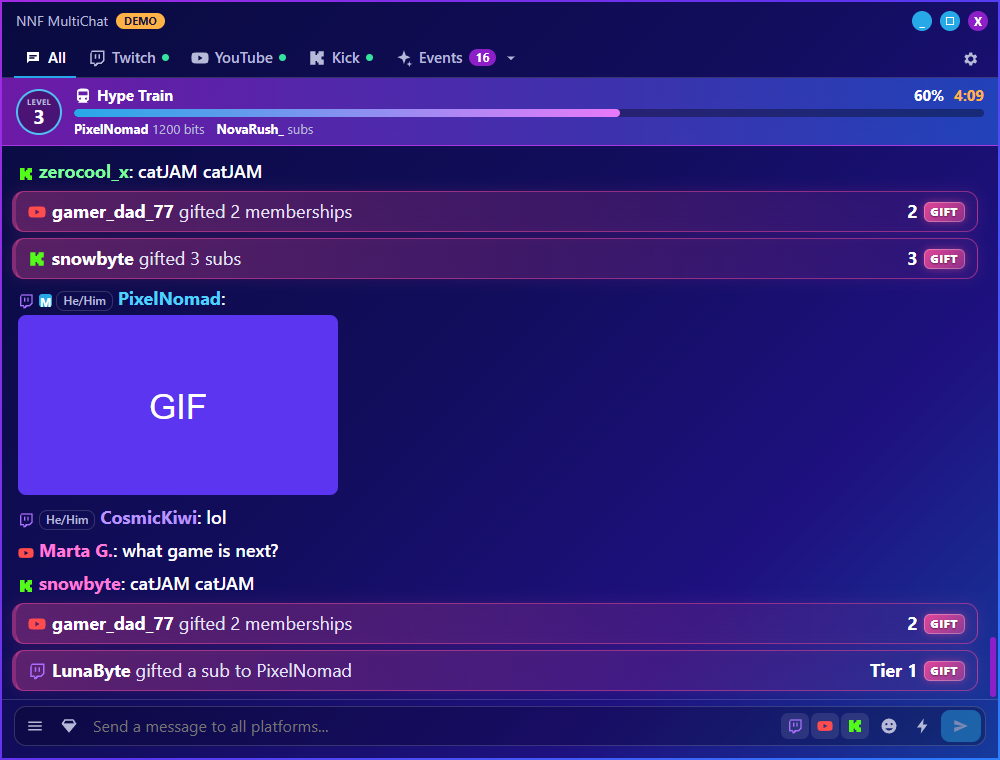
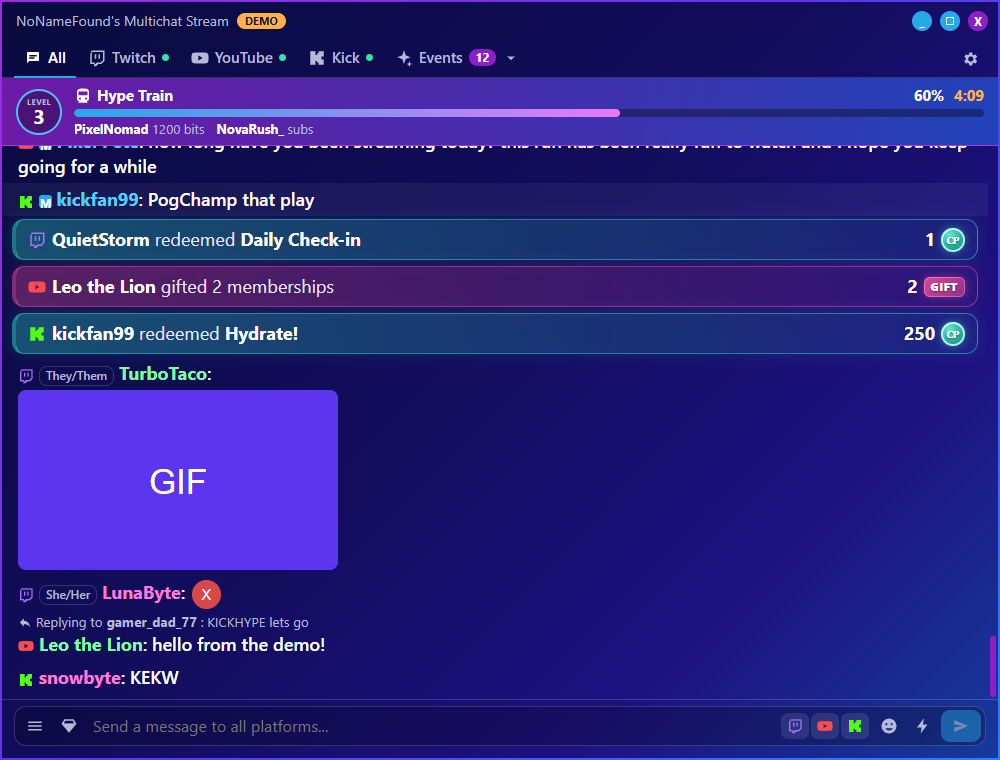
Add close-to-tray, simple logins and new app name
- Choose whether X exits, asks or minimizes to the tray
- Allow release builds to include YouTube and Kick app credentials
  from a private .env.local, so users only need to log in
- Rename the app to NoNameFound's Multichat Stream

diff --git a/src/main/index.ts b/src/main/index.ts
@@ -1,8 +1,10 @@
 import { BrowserWindow, app, ipcMain, session, shell } from 'electron'
 import { join } from 'node:path'
-import { TWITCH_CLIENT_ID } from '../shared/app-config'
+import { APP_NAME, TWITCH_CLIENT_ID } from '../shared/app-config'
 import { safeUrl } from '../shared/parts'
 import { PLATFORMS, type Bootstrap, type PanelBounds, type Platform, type Settings } from '../shared/types'
+import { CloseToTray } from './close-to-tray'
+import { hasBuiltIn } from './credentials'
 import { DemoConnector } from './demo'
 import { Hub } from './hub'
 import type { Connector } from './platforms/connector'
@@ -18,11 +20,13 @@ const demo = process.argv.includes('--demo')
 const demoRate = Number(process.argv.find((a) => a.startsWith('--demo-rate='))?.split('=')[1]) || 60
 
 const MIN_OPACITY = 0.05
+const iconPath = app.isPackaged ? join(process.resourcesPath, 'icon.png') : join(app.getAppPath(), 'resources/icon.png')
 
 const hub = new Hub()
 let win: BrowserWindow | null = null
 let twitch: TwitchConnector | null = null
 let panel: TwitchPanel
+let closer: CloseToTray
 
 function openExternal(url: string): void {
   const safe = safeUrl(url)
@@ -42,10 +46,12 @@ function createWindow(): void {
     frame: false,
     show: false,
     backgroundColor: '#150a3c',
-    title: 'NNF MultiChat',
+    title: APP_NAME,
+    icon: iconPath,
     webPreferences: { preload: join(__dirname, '../preload/index.js'), contextIsolation: true, sandbox: true, nodeIntegration: false }
   })
   applyOpacity()
+  closer.attach(win)
   win.once('ready-to-show', () => win?.show())
   win.on('closed', () => { win = null })
   // The renderer is a local page: it must never navigate or open windows itself.
@@ -86,6 +92,8 @@ function registerIpc(): void {
     ...hub.snapshot(),
     demo,
     builtInTwitchId: !!TWITCH_CLIENT_ID,
+    builtInYoutube: hasBuiltIn('youtube'),
+    builtInKick: hasBuiltIn('kick'),
     dataDir,
     version: app.getVersion()
   }))
@@ -139,12 +147,11 @@ function registerIpc(): void {
 if (!app.requestSingleInstanceLock()) app.quit()
 else {
   app.on('second-instance', () => {
-    if (win?.isMinimized()) win.restore()
+    closer.show()
     // Opening the app again rescues a window left almost invisible.
     store.saveSettings({ windowOpacity: 1 })
     applyOpacity()
     win?.webContents.send('settings:changed', store.settings)
-    win?.focus()
   })
 
   void app.whenReady().then(async () => {
@@ -152,6 +159,11 @@ else {
     // Listing installed fonts is the only permission the app itself needs.
     session.defaultSession.setPermissionRequestHandler((_c, p, done) => done((p as string) === 'local-fonts'))
     session.defaultSession.setPermissionCheckHandler((_c, p) => (p as string) === 'local-fonts')
+    closer = new CloseToTray({
+      window: () => win,
+      iconPath,
+      settingsChanged: () => win?.webContents.send('settings:changed', store.settings)
+    })
     panel = new TwitchPanel(() => win, () => twitch?.channelLogin())
     buildConnectors()
     registerIpc()

diff --git a/src/renderer/src/components/Settings.tsx b/src/renderer/src/components/Settings.tsx
@@ -1,6 +1,6 @@
 import { useEffect, useState, type JSX, type ReactNode } from 'react'
 import { KICK_REDIRECT_URI } from '../../../shared/app-config'
-import { PLATFORM_LABEL, type ChatEventGroup, type Platform } from '../../../shared/types'
+import { PLATFORM_LABEL, type ChatEventGroup, type CloseAction, type Platform } from '../../../shared/types'
 import { Icon, PlatformIcon } from '../Icons'
 import { setSecrets, updateSettings, useStore } from '../store'
 import { statusText } from './Tabs'
@@ -38,7 +38,8 @@ function Account({ platform }: { platform: Platform }): JSX.Element {
   const g = GUIDE[platform]
   const idKey = `${platform}ClientId` as const
   const secretKey = platform === 'youtube' ? 'youtubeSecret' : platform === 'kick' ? 'kickSecret' : null
-  const showFields = !(platform === 'twitch' && boot.builtInTwitchId)
+  const builtIn = platform === 'twitch' ? boot.builtInTwitchId : platform === 'youtube' ? boot.builtInYoutube : boot.builtInKick
+  const showFields = !(platform === 'twitch' && builtIn)
   const live = st?.status === 'connected' || st?.status === 'waiting' || st?.status === 'reconnecting'
 
   const act = (fn: () => Promise<unknown>) => () => {
@@ -63,8 +64,8 @@ function Account({ platform }: { platform: Platform }): JSX.Element {
         </div>
       )}
       {showFields && !live && (
-        <details open={!settings[idKey]}>
-          <summary>One-time setup</summary>
+        <details open={!builtIn && !settings[idKey]}>
+          <summary>{builtIn ? 'Optional: use my own developer app' : 'One-time setup'}</summary>
           <ol>{g.steps.map((s) => <li key={s}>{s}</li>)}</ol>
           <p><button className="linkish" onClick={() => void window.nnf.openExternal(g.url)}>Open {g.title}</button></p>
           <label>Client ID
@@ -160,6 +161,16 @@ export function Settings({ onClose }: { onClose(): void }): JSX.Element {
           {!s.setupDismissed && <p className="lead">Welcome! Log in to each platform you stream on. You can do this later from the gear icon.</p>}
           <Section title="Accounts" desc="Connect the platforms you stream on">
             {(['twitch', 'youtube', 'kick'] as Platform[]).map((p) => <Account key={p} platform={p} />)}
+          </Section>
+
+          <Section title="Window" desc="Choose what happens when you close the app">
+            <Row title="When Closing the Window" desc="In the tray, chat stays connected in the background. Open it from the tray icon.">
+              <select aria-label="When closing the window" value={s.closeAction} onChange={(e) => void updateSettings({ closeAction: e.target.value as CloseAction })}>
+                <option value="exit">Exit completely</option>
+                <option value="ask">Ask every time</option>
+                <option value="tray">Minimize to tray</option>
+              </select>
+            </Row>
           </Section>
 
           <Section title="Appearance" desc="Change how the app looks">

diff --git a/src/main/close-to-tray.ts b/src/main/close-to-tray.ts
@@ -1,0 +1,86 @@
+import { BrowserWindow, Menu, Tray, app, dialog } from 'electron'
+import { APP_NAME } from '../shared/app-config'
+import type { CloseAction } from '../shared/types'
+import { store } from './store'
+
+interface Options {
+  window(): BrowserWindow | null
+  iconPath: string
+  /** Tells the UI a remembered choice changed the settings. */
+  settingsChanged(): void
+}
+
+/** Decides what the X button does: exit, hide to the tray, or ask. */
+export class CloseToTray {
+  private tray: Tray | null = null
+  private quitting = false
+  private asking = false
+
+  constructor(private o: Options) {
+    app.on('before-quit', () => { this.quitting = true })
+  }
+
+  attach(win: BrowserWindow): void {
+    win.on('close', (e) => {
+      if (this.quitting) return
+      const action = store.settings.closeAction
+      if (action === 'exit') return
+      e.preventDefault()
+      if (action === 'tray') this.hide()
+      else void this.ask()
+    })
+    // Windows is shutting down, so nothing may block the close.
+    win.on('session-end', () => { this.quitting = true })
+  }
+
+  private async ask(): Promise<void> {
+    const win = this.o.window()
+    if (!win || this.asking) return
+    this.asking = true
+    const { response, checkboxChecked } = await dialog.showMessageBox(win, {
+      type: 'question',
+      title: APP_NAME,
+      message: 'Close the app or keep it running in the tray?',
+      detail: 'In the tray, chat stays connected in the background.',
+      buttons: ['Minimize to tray', 'Exit', 'Cancel'],
+      defaultId: 0,
+      cancelId: 2,
+      checkboxLabel: 'Remember my choice',
+      noLink: true
+    })
+    this.asking = false
+    if (response === 2) return
+    const choice: CloseAction = response === 0 ? 'tray' : 'exit'
+    if (checkboxChecked) {
+      store.saveSettings({ closeAction: choice })
+      this.o.settingsChanged()
+    }
+    if (choice === 'tray') this.hide()
+    else app.quit()
+  }
+
+  private hide(): void {
+    this.ensureTray()
+    this.o.window()?.hide()
+  }
+
+  show(): void {
+    const win = this.o.window()
+    if (!win) return
+    if (win.isMinimized()) win.restore()
+    win.show()
+    win.focus()
+  }
+
+  private ensureTray(): void {
+    if (this.tray) return
+    this.tray = new Tray(this.o.iconPath)
+    this.tray.setToolTip(APP_NAME)
+    this.tray.setContextMenu(Menu.buildFromTemplate([
+      { label: 'Open', click: () => this.show() },
+      { type: 'separator' },
+      { label: 'Exit', click: () => app.quit() }
+    ]))
+    this.tray.on('click', () => this.show())
+  }
+}

diff --git a/src/main/credentials.ts b/src/main/credentials.ts
@@ -1,0 +1,23 @@
+import { store } from './store'
+
+export interface AppCredentials { id: string; secret: string }
+
+/**
+ * Official builds can include a shared developer app, so users just log in. These values come
+ * from a private `.env.local` at build time and are never in the source code.
+ * Main-process only: the renderer bundle must not contain them.
+ */
+const BUILT_IN = {
+  youtube: { id: import.meta.env.MAIN_VITE_YOUTUBE_CLIENT_ID ?? '', secret: import.meta.env.MAIN_VITE_YOUTUBE_CLIENT_SECRET ?? '' },
+  kick: { id: import.meta.env.MAIN_VITE_KICK_CLIENT_ID ?? '', secret: import.meta.env.MAIN_VITE_KICK_CLIENT_SECRET ?? '' }
+}
+
+export const hasBuiltIn = (platform: 'youtube' | 'kick'): boolean => !!(BUILT_IN[platform].id && BUILT_IN[platform].secret)
+
+/** A user's own app takes priority, so they can opt out of the shared quota. */
+export function credentials(platform: 'youtube' | 'kick'): AppCredentials | null {
+  const id = platform === 'youtube' ? store.settings.youtubeClientId : store.settings.kickClientId
+  const secret = store.getSecret(`${platform}.clientSecret`)
+  if (id && secret) return { id, secret }
+  return hasBuiltIn(platform) ? BUILT_IN[platform] : null
+}

diff --git a/src/shared/types.ts b/src/shared/types.ts
@@ -139,6 +139,8 @@ export type ModerationRequest =
 
 export type ChatEventGroup = 'subs' | 'gifts' | 'cheers' | 'raids' | 'redemptions' | 'powerups' | 'follows' | 'paid' | 'hype'
 
+export type CloseAction = 'exit' | 'ask' | 'tray'
+
 export interface EmoteProviders { bttv: boolean; seventv: boolean; ffz: boolean }
 
 export interface Settings {
@@ -157,6 +159,7 @@ export interface Settings {
   showPronouns: boolean
   emoteProviders: EmoteProviders
   chatEvents: Record<ChatEventGroup, boolean>
+  closeAction: CloseAction
 }
 
 export const DEFAULT_SETTINGS: Settings = {
@@ -174,6 +177,7 @@ export const DEFAULT_SETTINGS: Settings = {
   showPronouns: true,
   emoteProviders: { bttv: true, seventv: true, ffz: true },
   // Follows start off because follow bots can flood chat.
+  closeAction: 'ask',
   chatEvents: { subs: true, gifts: true, cheers: true, raids: true, redemptions: true, powerups: true, follows: false, paid: true, hype: true }
 }
 
@@ -190,6 +194,8 @@ export interface Bootstrap {
   hype: HypeTrain | null
   demo: boolean
   builtInTwitchId: boolean
+  builtInYoutube: boolean
+  builtInKick: boolean
   dataDir: string
   version: string
 }

diff --git a/src/main/platforms/kick/connector.ts b/src/main/platforms/kick/connector.ts
@@ -2,6 +2,7 @@ import { KICK_REDIRECT_PORT } from '../../../shared/app-config'
 import type { EmoteLookup } from '../../../shared/parts'
 import type { ActionDef, ActionResult, Emote, ModerationRequest } from '../../../shared/types'
 import { loopbackLogin } from '../../auth/loopback-pkce'
+import { credentials, type AppCredentials } from '../../credentials'
 import { load7tv, toLookup } from '../../emotes/third-party'
 import { errorText, fetchJson, HttpError, message, readBody, sleep } from '../../net'
 import { store } from '../../store'
@@ -29,10 +30,8 @@ export class KickConnector implements Connector {
 
   constructor(private ctx: ConnectorContext) {}
 
-  private creds(): { id: string; secret: string } | null {
-    const id = store.settings.kickClientId
-    const secret = store.getSecret('kick.clientSecret')
-    return id && secret ? { id, secret } : null
+  private creds(): AppCredentials | null {
+    return credentials('kick')
   }
 
   private save(t: Tokens | null): void {

diff --git a/src/main/platforms/youtube/connector.ts b/src/main/platforms/youtube/connector.ts
@@ -1,5 +1,6 @@
 import type { ActionDef, ActionResult, Emote, ModerationRequest } from '../../../shared/types'
 import { loopbackLogin } from '../../auth/loopback-pkce'
+import { credentials, type AppCredentials } from '../../credentials'
 import { emojiSet } from '../../emotes/emoji'
 import { errorText, fetchJson, HttpError, message, readBody, sleep } from '../../net'
 import { store } from '../../store'
@@ -27,10 +28,8 @@ export class YouTubeConnector implements Connector {
 
   constructor(private ctx: ConnectorContext) {}
 
-  private creds(): { id: string; secret: string } | null {
-    const id = store.settings.youtubeClientId
-    const secret = store.getSecret('youtube.clientSecret')
-    return id && secret ? { id, secret } : null
+  private creds(): AppCredentials | null {
+    return credentials('youtube')
   }
 
   private save(t: Tokens | null): void {

diff --git a/src/renderer/src/theme.css b/src/renderer/src/theme.css
@@ -54,7 +54,7 @@ h2, h3 { margin: 0; }
 /* Title bar */
 .titlebar { height: 38px; flex: none; display: flex; align-items: center; gap: 8px; padding: 0 10px 0 14px; -webkit-app-region: drag; }
 .titlebar button { -webkit-app-region: no-drag; }
-.brand { color: var(--muted); font-size: 14px; }
+.brand { color: var(--muted); font-size: 14px; white-space: nowrap; overflow: hidden; text-overflow: ellipsis; min-width: 0; }
 .demo-tag { font-size: 11px; font-weight: 700; color: #151040; background: var(--orange); padding: 0 8px; border-radius: 8px; }
 .win-btn { width: 20px; height: 20px; border-radius: 50%; display: grid; place-items: center; font-size: 12px; font-weight: 700; line-height: 1; color: #fff; background: var(--blue); }
 .win-btn:hover { background: var(--blue-2); }

diff --git a/src/main/auth/loopback-pkce.ts b/src/main/auth/loopback-pkce.ts
@@ -1,11 +1,12 @@
 import { shell } from 'electron'
+import { APP_NAME } from '../../shared/app-config'
 import { createHash, randomBytes } from 'node:crypto'
 import { createServer } from 'node:http'
 import type { AddressInfo } from 'node:net'
 
 const b64 = (b: Buffer): string => b.toString('base64url')
 
-const PAGE = (ok: boolean): string => `<!doctype html><meta charset="utf-8"><title>NNF MultiChat</title>
+const PAGE = (ok: boolean): string => `<!doctype html><meta charset="utf-8"><title>${APP_NAME}</title>
 <body style="background:#150a3c;color:#fff;font:18px sans-serif;display:grid;place-items:center;height:90vh">
 <div>${ok ? 'Login complete. You can close this tab.' : 'Login failed. Please return to the app and try again.'}</div>`
 

diff --git a/src/renderer/src/components/TitleBar.tsx b/src/renderer/src/components/TitleBar.tsx
@@ -1,9 +1,10 @@
 import type { JSX } from 'react'
+import { APP_NAME } from '../../../shared/app-config'
 
 export function TitleBar({ demo }: { demo: boolean }): JSX.Element {
   return (
     <header className="titlebar">
-      <span className="brand">NNF MultiChat</span>
+      <span className="brand">{APP_NAME}</span>
       {demo && <span className="demo-tag">DEMO</span>}
       <div className="grow" />
       <button className="win-btn" aria-label="Minimize" onClick={() => window.nnf.window('minimize')}>_</button>

diff --git a/src/shared/app-config.ts b/src/shared/app-config.ts
@@ -1,3 +1,5 @@
+export const APP_NAME = "NoNameFound's Multichat Stream"
+
 /**
  * Public Twitch Client ID built into release builds. Twitch public clients have no secret,
  * so this value is safe to commit. Leave empty to have users paste their own in the setup screen.

diff --git a/src/renderer/index.html b/src/renderer/index.html
@@ -3,7 +3,7 @@
   <head>
     <meta charset="UTF-8" />
     <meta name="viewport" content="width=device-width, initial-scale=1" />
-    <title>NNF MultiChat</title>
+    <title>NoNameFound's Multichat Stream</title>
   </head>
   <body>
     <div id="root"></div>
